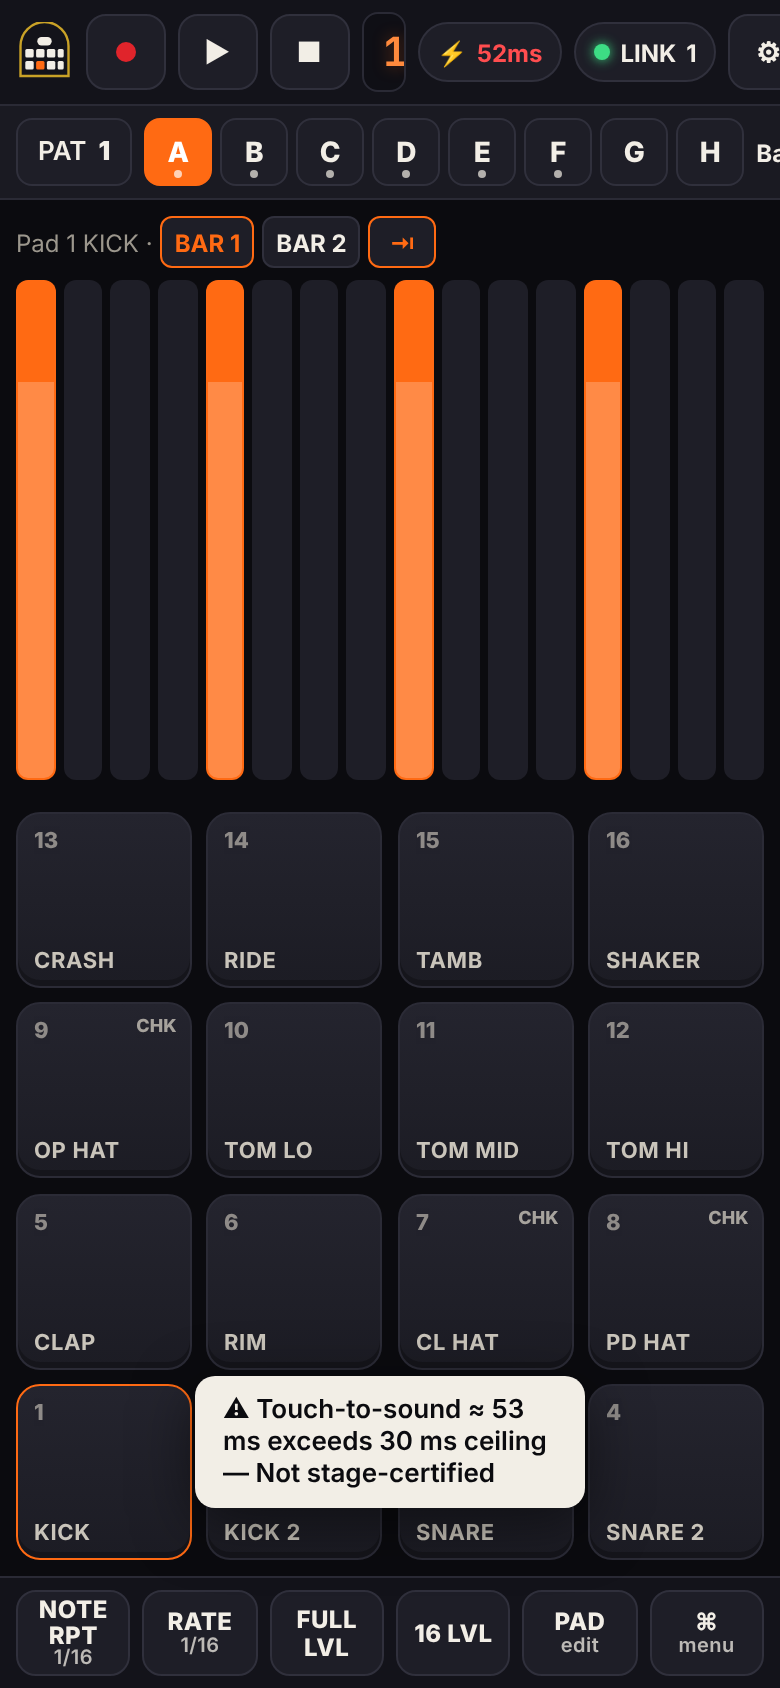
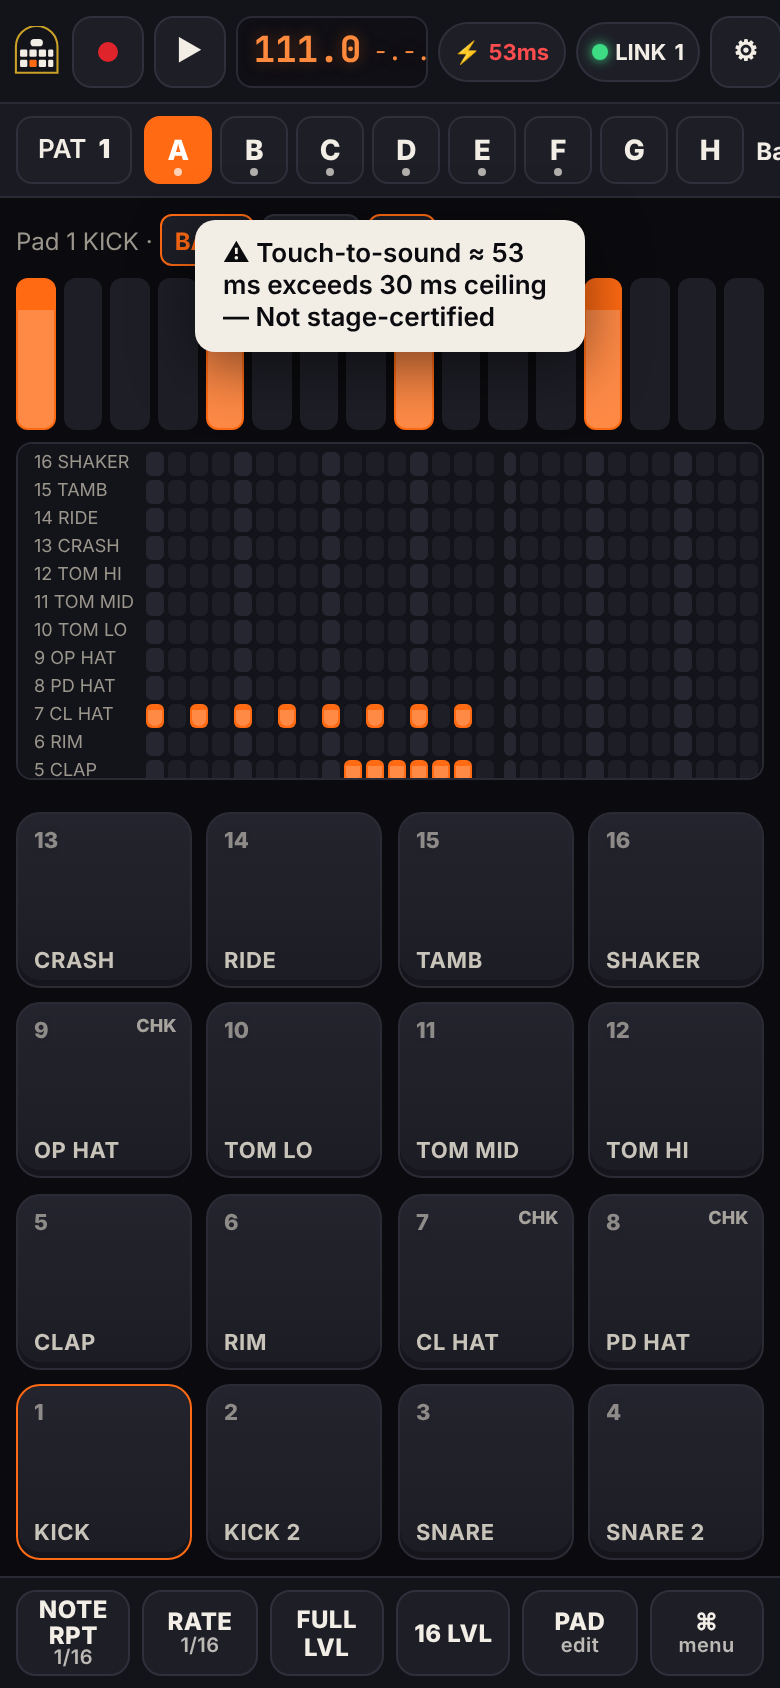
Smoke 15/15, screenshots, zip script, bridge package scripts

diff --git a/src/ui/view.ts b/src/ui/view.ts
@@ -48,11 +48,11 @@ export class View {
     this.applyTheme();
     // status strip
     const rec = h('button', { class: 'tbtn rec', 'aria-label': 'Record', title: 'Record (Enter)', onclick: () => a.toggleRecord() }, h('span', { class: 'dot' }), h('span', { class: 'hide-phone' }, 'REC'));
-    const play = h('button', { class: 'tbtn play', 'aria-label': 'Play', title: 'Play / Stop (Space)', onclick: () => (a.seq.playing ? a.stop() : a.play()) }, '▶');
+    const play = h('button', { class: 'tbtn play', 'aria-label': 'Play / Stop', title: 'Play / Stop (Space)', onclick: () => (a.seq.playing ? a.stop() : a.play()) }, '▶');
     const stop = h('button', { class: 'tbtn stop', 'aria-label': 'Stop', onclick: () => a.stop() }, '■');
     const lcd = h('div', { class: 'lcd', role: 'button', 'aria-label': 'Tempo and transport settings', onclick: () => this.sheets.transport() },
       h('span', { class: 'seg' }, h('span', { class: 'big bpm' }, '120.0')),
-      h('span', { class: 'seg' }, h('span', { class: 'lbl' }, 'BPM')),
+      h('span', { class: 'seg lblbpm' }, h('span', { class: 'lbl' }, 'BPM')),
       h('span', { class: 'seg pos' }, '1.1'),
       h('span', { class: 'seg hide-phone' }, h('span', { class: 'lbl' }, 'SW'), h('span', { class: 'swing' }, '56%')),
       h('span', { class: 'seg hide-phone' }, h('span', { class: 'lbl' }, 'Q'), h('span', { class: 'quant' }, '1/16')),
@@ -69,7 +69,7 @@ export class View {
       BANKS.map((b, i) => h('button', { class: 'bank', role: 'tab', 'aria-label': `Bank ${b}`, onclick: () => this.setBank(i) }, b)));
     const patBtn = h('button', { class: 'pill', 'aria-label': 'Pattern', onclick: () => this.sheets.transport() }, 'PAT ', h('b', { class: 'patn' }, '1'));
     const info = h('div', { class: 'trackinfo', role: 'status' });
-    const soundsBtn = h('button', { class: 'pill', onclick: () => this.sheets.sounds() }, '♫ Sounds');
+    const soundsBtn = h('button', { class: 'pill soundsBtn', onclick: () => this.sheets.sounds() }, '♫ Sounds');
     const track = h('section', { class: 'trackrow' }, patBtn, banks, info, soundsBtn);
     Object.assign(this.els, { banks, info, patBtn });
 
@@ -265,8 +265,8 @@ export class View {
     let size: number;
     if (this.layout === 'phone') {
       if (this.orient === 'landscape') size = Math.min(H - header - actions - 12, W * 0.5);
-      else size = Math.min(W - 16, H - header - actions - 130);
-    } else if (this.orient === 'landscape') size = Math.min(H * 0.58, (W - 290) * 0.75, H - header - 170);
+      else size = Math.min(W - 16, H - header - actions - (H > 760 ? 230 : 120));
+    } else if (this.orient === 'landscape') size = Math.min(H * 0.58, (W - 290) * 0.75, H - header - 290);
     else size = Math.min(W - 24, H * 0.55);
     size = Math.max(220, Math.floor(size));
     r.style.setProperty('--grid', size + 'px');
@@ -286,6 +286,7 @@ export class View {
     (l.querySelector('.quant') as HTMLElement).textContent = a.p.quantize.toUpperCase();
     this.els.rec.classList.toggle('on', a.seq.recording);
     this.els.play.classList.toggle('on', a.seq.playing);
+    if (this.layout === 'phone') this.els.play.textContent = a.seq.playing ? '■' : '▶'; else this.els.play.textContent = '▶';
     this.els.patBtn.querySelector('.patn')!.textContent = String(a.p.currentPattern + 1);
     this.renderLatency(); this.renderLink(); this.renderMidi();
   }
@@ -364,12 +365,19 @@ export class View {
         lane.appendChild(c); this.stepCells.push({ el: c, col });
       }
       ed.appendChild(lane);
+      if (ed.clientHeight > 200 || window.innerHeight > 760) ed.appendChild(this.bankGrid(true));
       return;
     }
-    // tablet: 16-row drum grid for the current bank
+    ed.append(h('div', { class: 'bartabs' }, h('b', {}, `${pat.name}`), ` · ${bars} bar${bars > 1 ? 's' : ''} · grid ${a.p.quantize === 'off' ? '1/16' : a.p.quantize} · swing ${a.p.swing}% · ${pat.events.length} notes`), this.bankGrid(false));
+  }
+
+  /** 16-row drum grid of the current bank (tablet editor; mini overview on tall phones). */
+  private bankGrid(mini: boolean) {
+    const a = this.app; const pat = a.seq.pattern; const st = a.stepTicks(); const perBar = Math.round(4 * PPQ / st); const bars = pat.bars;
+    const beatEvery = Math.max(1, Math.round(PPQ / st));
     const total = perBar * bars;
     const wrap = h('div', { class: 'gridwrap' });
-    const grid = h('div', { class: 'grid', style: { gridTemplateColumns: `86px repeat(${total}, minmax(16px, 1fr))` } });
+    const grid = h('div', { class: 'grid', style: { gridTemplateColumns: `${mini ? 58 : 86}px repeat(${total}, minmax(${mini ? 9 : 16}px, 1fr))` } });
     const byPad = new Map<number, typeof pat.events>();
     for (const e of pat.events) { const l = byPad.get(e.p) || []; l.push(e); byPad.set(e.p, l); }
     for (let r = 15; r >= 0; r--) {
@@ -384,7 +392,7 @@ export class View {
       }
     }
     wrap.appendChild(grid);
-    ed.append(h('div', { class: 'bartabs' }, h('b', {}, `${pat.name}`), ` · ${bars} bar${bars > 1 ? 's' : ''} · grid ${a.p.quantize === 'off' ? '1/16' : a.p.quantize} · swing ${a.p.swing}% · ${pat.events.length} notes`), wrap);
+    return wrap;
   }
 
   renderBrowser() {

diff --git a/src/styles.css b/src/styles.css
@@ -208,7 +208,7 @@ input[type=range] { width: 100%; accent-color: var(--accent); height: 28px; }
 .phasebar { display: grid; grid-template-columns: repeat(var(--q, 4), 1fr); gap: 4px; }
 .phasebar i { height: 14px; border-radius: 4px; background: var(--step-off); }
 .phasebar i.on { background: var(--accent); }
-.toast { position: fixed; left: 50%; bottom: calc(90px + env(safe-area-inset-bottom)); transform: translateX(-50%); background: var(--text); color: var(--bg); padding: 9px 14px; border-radius: 10px; font-size: 13px; font-weight: 600; z-index: 90; max-width: 90vw; box-shadow: var(--shadow); pointer-events: none; }
+.toast { position: fixed; left: 50%; top: calc(110px + env(safe-area-inset-top)); transform: translateX(-50%); background: var(--text); color: var(--bg); padding: 9px 14px; border-radius: 10px; font-size: 13px; font-weight: 600; z-index: 90; max-width: 90vw; box-shadow: var(--shadow); pointer-events: none; }
 
 /* ===== start + lock ===== */
 .overlay { position: fixed; inset: 0; z-index: 80; display: flex; align-items: center; justify-content: center; flex-direction: column; gap: 18px; background: var(--bg); padding: 24px; text-align: center; }
@@ -224,3 +224,25 @@ input[type=range] { width: 100%; accent-color: var(--accent); height: 28px; }
 .devtag { position: fixed; top: calc(6px + env(safe-area-inset-top)); right: 8px; z-index: 85; font-size: 10px; font-weight: 800; letter-spacing: .1em; padding: 3px 7px; border-radius: 4px; background: var(--gold); color: #fff; cursor: pointer; }
 .gracebar { position: fixed; top: 0; left: 0; right: 0; z-index: 40; background: #FF6A13; color: #fff; font-size: 13px; font-weight: 700; text-align: center; padding: 4px calc(8px + env(safe-area-inset-right)) 4px 8px; padding-top: calc(4px + env(safe-area-inset-top)); }
 .sr-only { position: absolute; width: 1px; height: 1px; overflow: hidden; clip: rect(0 0 0 0); white-space: nowrap; }
+
+/* phone compaction */
+.layout-phone .status { gap: 5px; padding: 6px; }
+.layout-phone .status .stop, .layout-phone .lcd .lblbpm { display: none; }
+.layout-phone .mark svg { height: 26px; }
+.layout-phone .tbtn { min-width: 36px; height: 36px; padding: 0 6px; }
+.layout-phone .lcd { padding: 2px 8px; gap: 6px; height: 36px; min-width: 96px; }
+.layout-phone .lcd .big { font-size: 18px; }
+.layout-phone .lcd .pos { font-size: 12px; }
+.layout-phone .chip { padding: 0 7px; height: 30px; font-size: 11px; gap: 4px; }
+.layout-phone .trackrow .soundsBtn { display: none; }
+.layout-phone .lane { flex: 0 0 auto; height: clamp(44px, 9vh, 80px); }
+.layout-phone .editor .gridwrap { flex: 1 1 auto; }
+.layout-phone .grid .step { min-height: 12px; }
+.layout-phone .grid .rowlbl { font-size: 9px; }
+.grid { grid-auto-rows: minmax(12px, 1fr); }
+.layout-tablet .grid .step { min-height: 13px; }
+/* phone landscape "Studio": pads left (square, full height), editor right */
+.layout-phone.orient-landscape { grid-template-columns: auto minmax(0, 1fr); grid-template-rows: auto auto minmax(0, 1fr) auto; grid-template-areas: "head head" "track track" "pads editor" "actions actions"; }
+.layout-phone.orient-landscape .lane { height: 60px; }
+
+.layout-phone ~ .overlay .archmark svg, .overlay .archmark svg { max-height: 26vh; }

diff --git a/src/main.ts b/src/main.ts
@@ -30,7 +30,8 @@ const startNow = async () => {
   splash.remove();
   try { await app.start(); } catch (e) { console.error(e); alert('Audio failed to start: ' + (e as Error).message); }
 };
-splash.addEventListener('pointerdown', (e) => { e.preventDefault(); startNow(); }, { once: true });
+// 'click' (not pointerdown): counts as a user activation on iOS (touchend) and avoids click-through to pads below.
+splash.addEventListener('click', (e) => { e.preventDefault(); e.stopPropagation(); startNow(); }, { once: true });
 document.body.appendChild(splash);
 
 if ('serviceWorker' in navigator && window.isSecureContext && import.meta.env.PROD) {

diff --git a/scripts/zip.py b/scripts/zip.py
@@ -1,0 +1,11 @@
+# Zips dist/ into ../sanctum-build.zip under a top-level "sanctum-build/" folder.
+import os, zipfile, sys
+root = os.path.join(os.path.dirname(__file__), '..', 'dist')
+out = os.path.abspath(os.path.join(os.path.dirname(__file__), '..', '..', 'sanctum-build.zip'))
+with zipfile.ZipFile(out, 'w', zipfile.ZIP_DEFLATED) as z:
+    for d, _, files in os.walk(root):
+        for f in files:
+            if f.endswith('.map'): continue
+            p = os.path.join(d, f)
+            z.write(p, os.path.join('sanctum-build', os.path.relpath(p, root)))
+print('wrote', out, os.path.getsize(out), 'bytes')

diff --git a/PROGRESS.md b/PROGRESS.md
@@ -24,3 +24,10 @@ All times Pacific (PDT).
 - Sequencer: 960 PPQ, 1–8 bars, 8 patterns, swing 50–75% (1/8 or 1/16), quantize off…1/32T, note repeat, count-in, metronome, latency-corrected recording.
 - UI: phone portrait + tablet landscape/portrait layouts, 3 themes, pad flash + ring + touch-point ripple, Timing Lab, Link/MIDI sheet, sounds/credits, settings, access-gating mock.
 - Next: headless smoke test + screenshots, Link end-to-end through the UI, README, zip.
+
+## Sat Oct 31 2026 00:55 PDT — Headless smoke test 15/15, screenshots, zip
+- `npm run smoke` (scripts/smoke.mjs, puppeteer-core + system Chrome) starts vite preview + Link bridge + a 2nd Link peer and checks: worklet engine running, church banks loaded into C–F, pad tap → audio, 2-finger multi-touch, sequencer playback with 0 late events, note-repeat recording lands on the 1/16 grid, swing warp math, loop pad launches on next bar with rate = BPM/loopBPM, autosave restore after reload, Link (peer visible, tempo follows peer 97 BPM, phase error ≈1.7 ms, app tempo change 111 propagates to the other peer), no console errors.
+- Screenshots: screenshots/ (phone dark/light/warm, tablet landscape + portrait × 3 themes, Timing Lab, Sounds, Link sheet, lock/invite/paywall/expired).
+- Fixed: tablet init order bug; splash click-through (now starts audio on click = iOS-safe user activation); phone header compaction; phone mini drum-grid; toast moved to top.
+- Production zip: /workspace/projects/sanctum-build.zip (~21 MB incl. church banks WAV+OGG).
+- Next: README, HTTPS/LAN check, loop decode check, polish.
